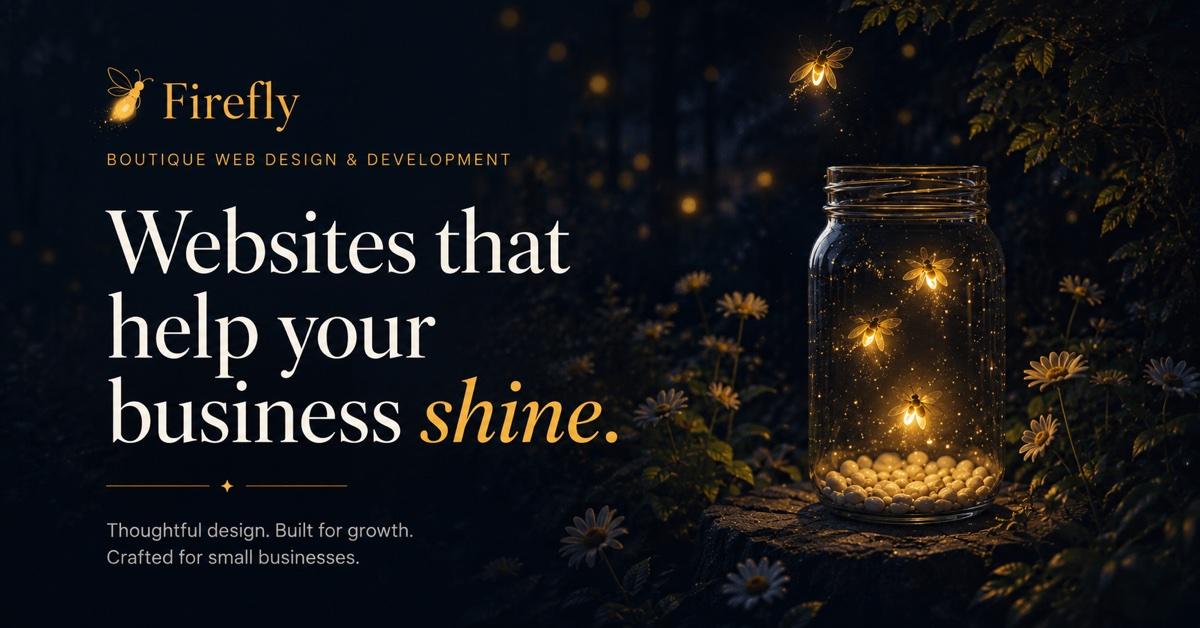
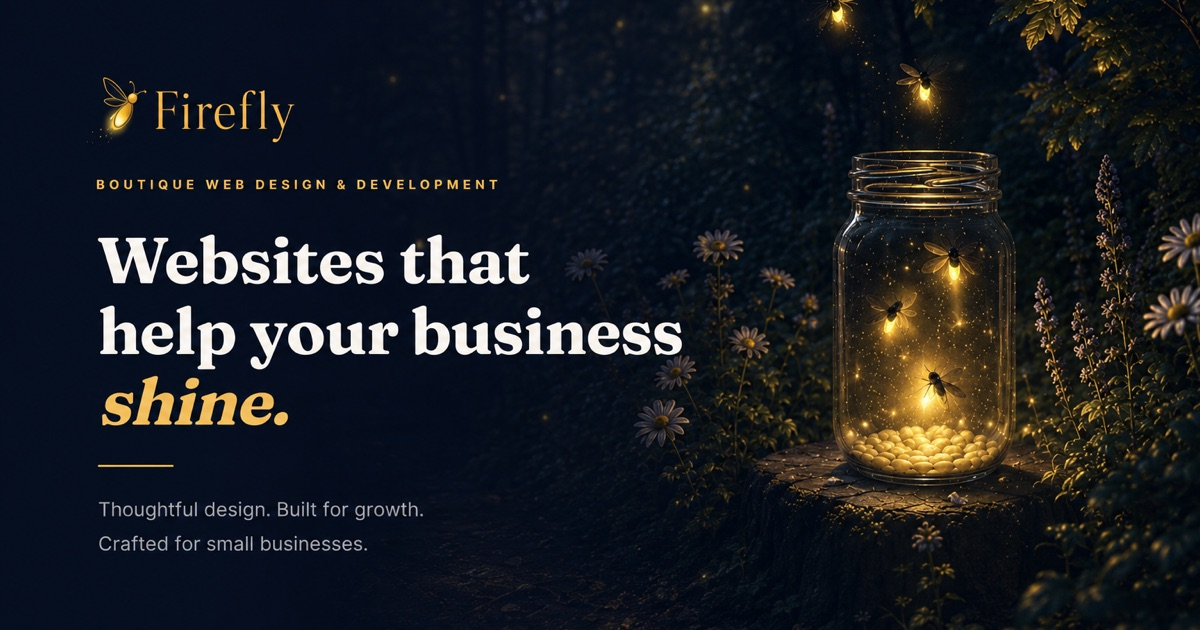
Use higher-quality OG image and adjust footer spacing
Replace firefly-og.jpg with sharper source cropped to 1200x630, compressed to ~190KB. Tighten footer padding/logo sizing.

diff --git a/app/components/Footer.tsx b/app/components/Footer.tsx
@@ -33,10 +33,10 @@ const Footer = () => (
     component="footer"
     sx={{ borderTop: "1px solid rgba(245,241,236,0.08)" }}
   >
-    <Box sx={{ padding: "48px 0 36px" }}>
+    <Box sx={{ padding: "32px 0 24px" }}>
       <Container>
         {/* Logo */}
-        <Box sx={{ display: "flex", justifyContent: "center", mb: 3.5 }}>
+        <Box sx={{ display: "flex", justifyContent: "center", mb: 4.75 }}>
           <Link
             href="/"
             aria-label="Home"
@@ -50,7 +50,7 @@ const Footer = () => (
               "&:hover": { opacity: 1 },
             }}
           >
-            <BrandMark height={26} />
+            <BrandMark height={30} />
           </Link>
         </Box>
 
@@ -62,7 +62,7 @@ const Footer = () => (
             alignItems: "center",
             flexWrap: "wrap",
             gap: { xs: "16px 24px", sm: "16px 32px" },
-            mb: 3.5,
+            mb: 2,
           }}
         >
           {navLinks.map(({ name, href }) => (
@@ -82,7 +82,7 @@ const Footer = () => (
           </Link>
         </Box>
 
-        <Divider sx={{ borderColor: "rgba(245,241,236,0.06)", mb: 3 }} />
+        <Divider sx={{ borderColor: "rgba(245,241,236,0.06)", mb: 2 }} />
 
         <Typography
           sx={{